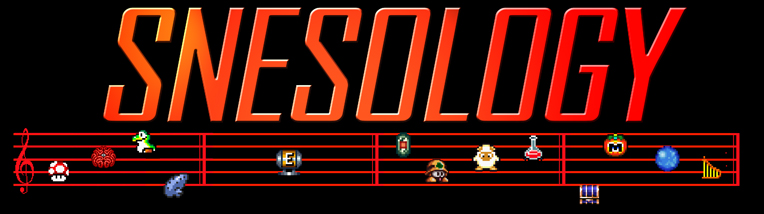
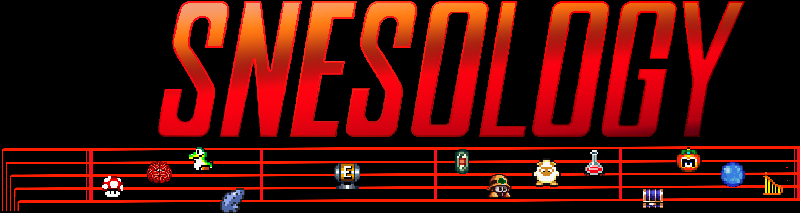
template changes

diff --git a/Site/Render/assets/default-template.css b/Site/Render/assets/default-template.css
@@ -35,8 +35,8 @@ section, div.section {
 
 .header {
     background: url("img/header1.jpg") no-repeat center;
-    /* width: 1024px; */
-    height: 195px;
+    width: 800px;
+    height: 200px;
     padding: 1em;
 }
 
@@ -134,6 +134,7 @@ h1, h2, h3, h4, h5, h6 {
 }
 
 .navbar a.focus {
+    background-image: url("img/button2.jpg");
     border-color: #FFBC0D;
     border-style: inset;
 }
@@ -147,7 +148,7 @@ h1, h2, h3, h4, h5, h6 {
 thead th,
 tbody th,
 tr:hover {
-    background: #567;
+    background: #670008;
     color: #CCC;
 }
 
